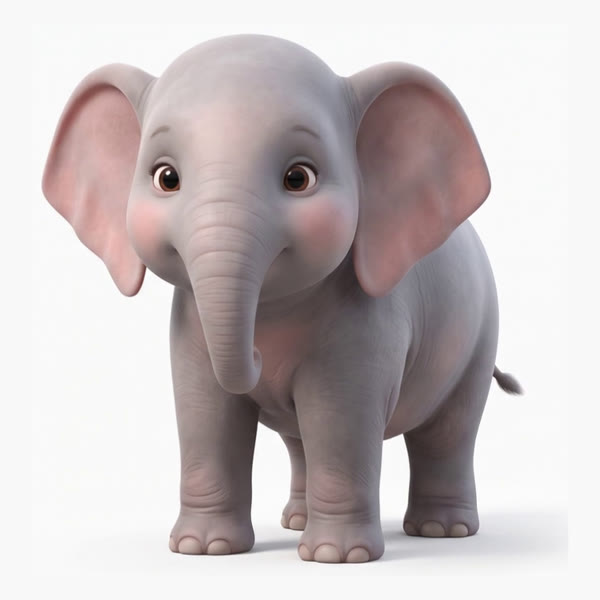
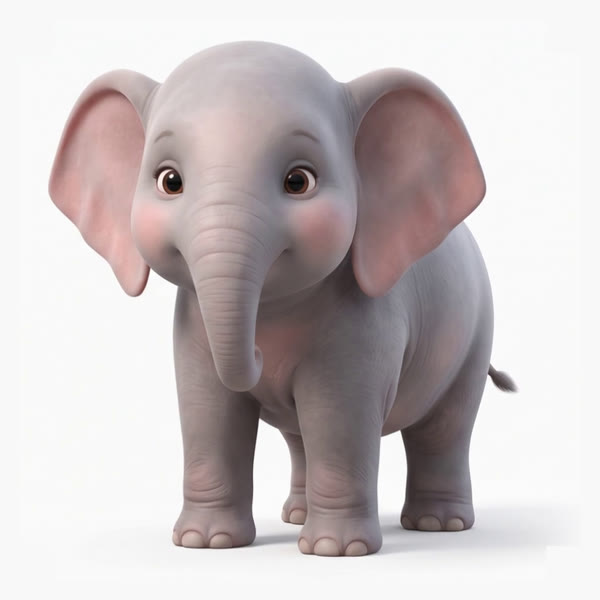
ABC-Bilder: Bär mit ganzer linker Pfote, Katze und Elefant mit mehr Rand, v25
Claude-Session: https://claude.ai/code/session_017pNMCfqETpozeZAJSfi35U

diff --git a/index.html b/index.html
@@ -119,7 +119,7 @@
   <footer class="fuss">
     <p data-t="f_safe"></p>
     <p><a href="info.html" data-t="f_parents"></a></p>
-    <p class="version">v24</p>
+    <p class="version">v25</p>
   </footer>
 </div>
 <script src="gemeinsam.js"></script>

diff --git a/CLAUDE.md b/CLAUDE.md
@@ -7,7 +7,7 @@ Statische Website auf GitHub Pages, keine Build-Tools, kein Framework.
 - `index.html` – Startseite: zuerst Intro-Video (`bilder/intro.mp4` + Standbild `intro.jpg`, stumm; „Let's go!“ = mit Ton;
   einmal pro Besuch über `sessionStorage` `ela-intro`). Dann Elas Zimmer (`bilder/zimmer.jpg`) mit Logo und Ela (begrüßt),
   KEIN sprechendes Kätzchen im Kreis mehr (auf Wunsch entfernt), darunter große Kacheln zu den Bereichen (Zahlen vorerst ausgeblendet).
-  Unten Fußzeile mit Versionsnummer (`v24`) – bei jeder sichtbaren Änderung hochzählen, damit man im Browser erkennt, ob die neue Version da ist.
+  Unten Fußzeile mit Versionsnummer (`v25`) – bei jeder sichtbaren Änderung hochzählen, damit man im Browser erkennt, ob die neue Version da ist.
 - `malbuch.html` – Malbuch mit **Themen** (Halloween aktiv; Christmas, Animals, Sweets, Ocean sind vorbereitet, aber ausgeblendet, bis sie Bilder haben).
   Bild wählen, Farbe wählen, in eine Fläche tippen → füllt sich. Zusätzlich Pinsel, Undo, Neu, Speichern.
   „Print“ (Knopf mit dem Halloween-Drucker `bilder/drucker.png` aus den Videos) druckt das leere Bild als A4-Blatt
